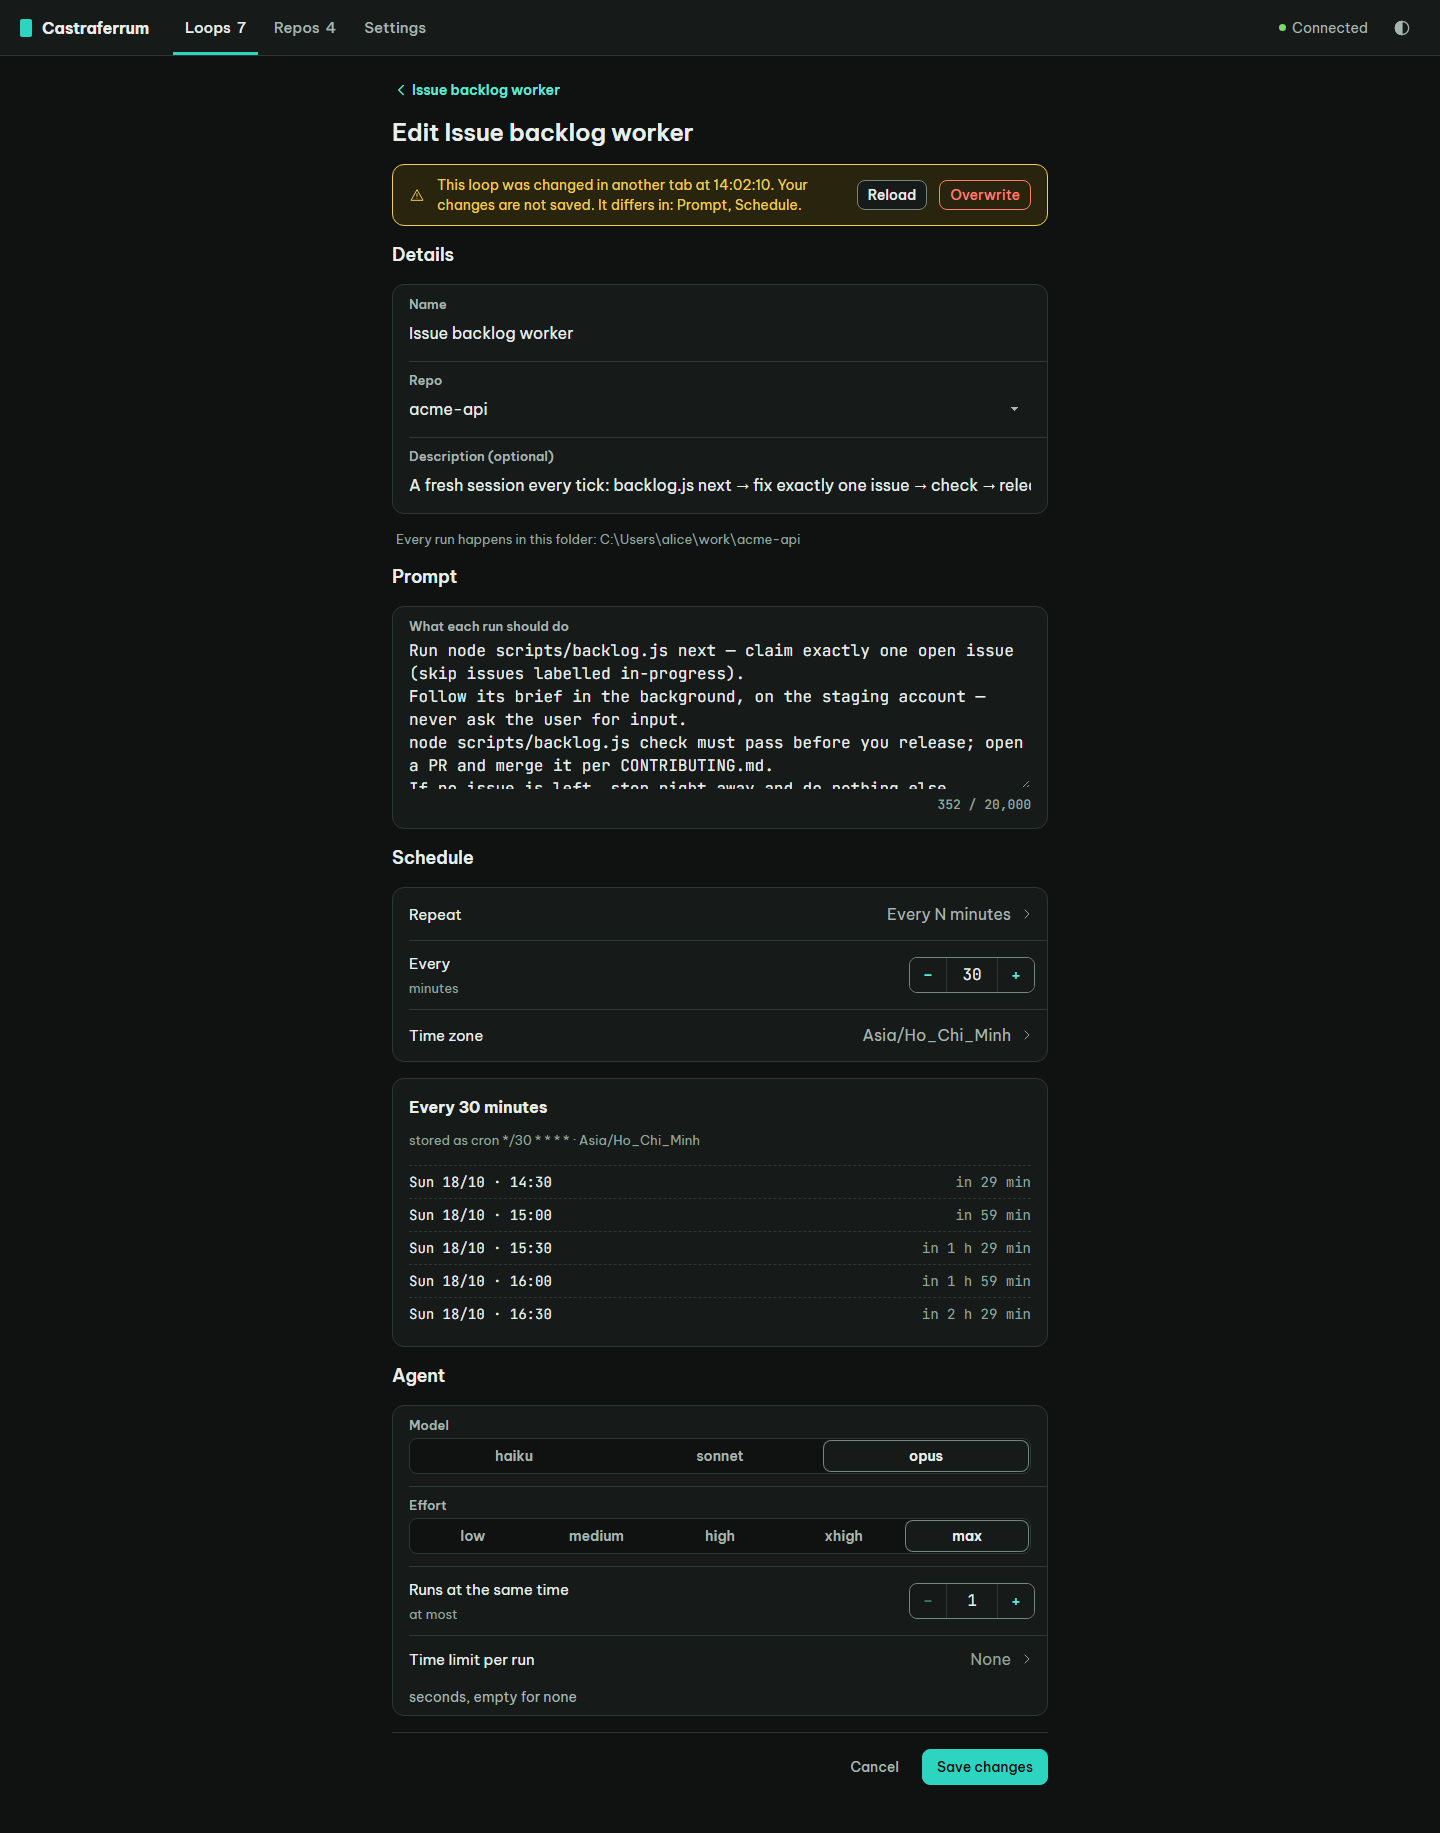
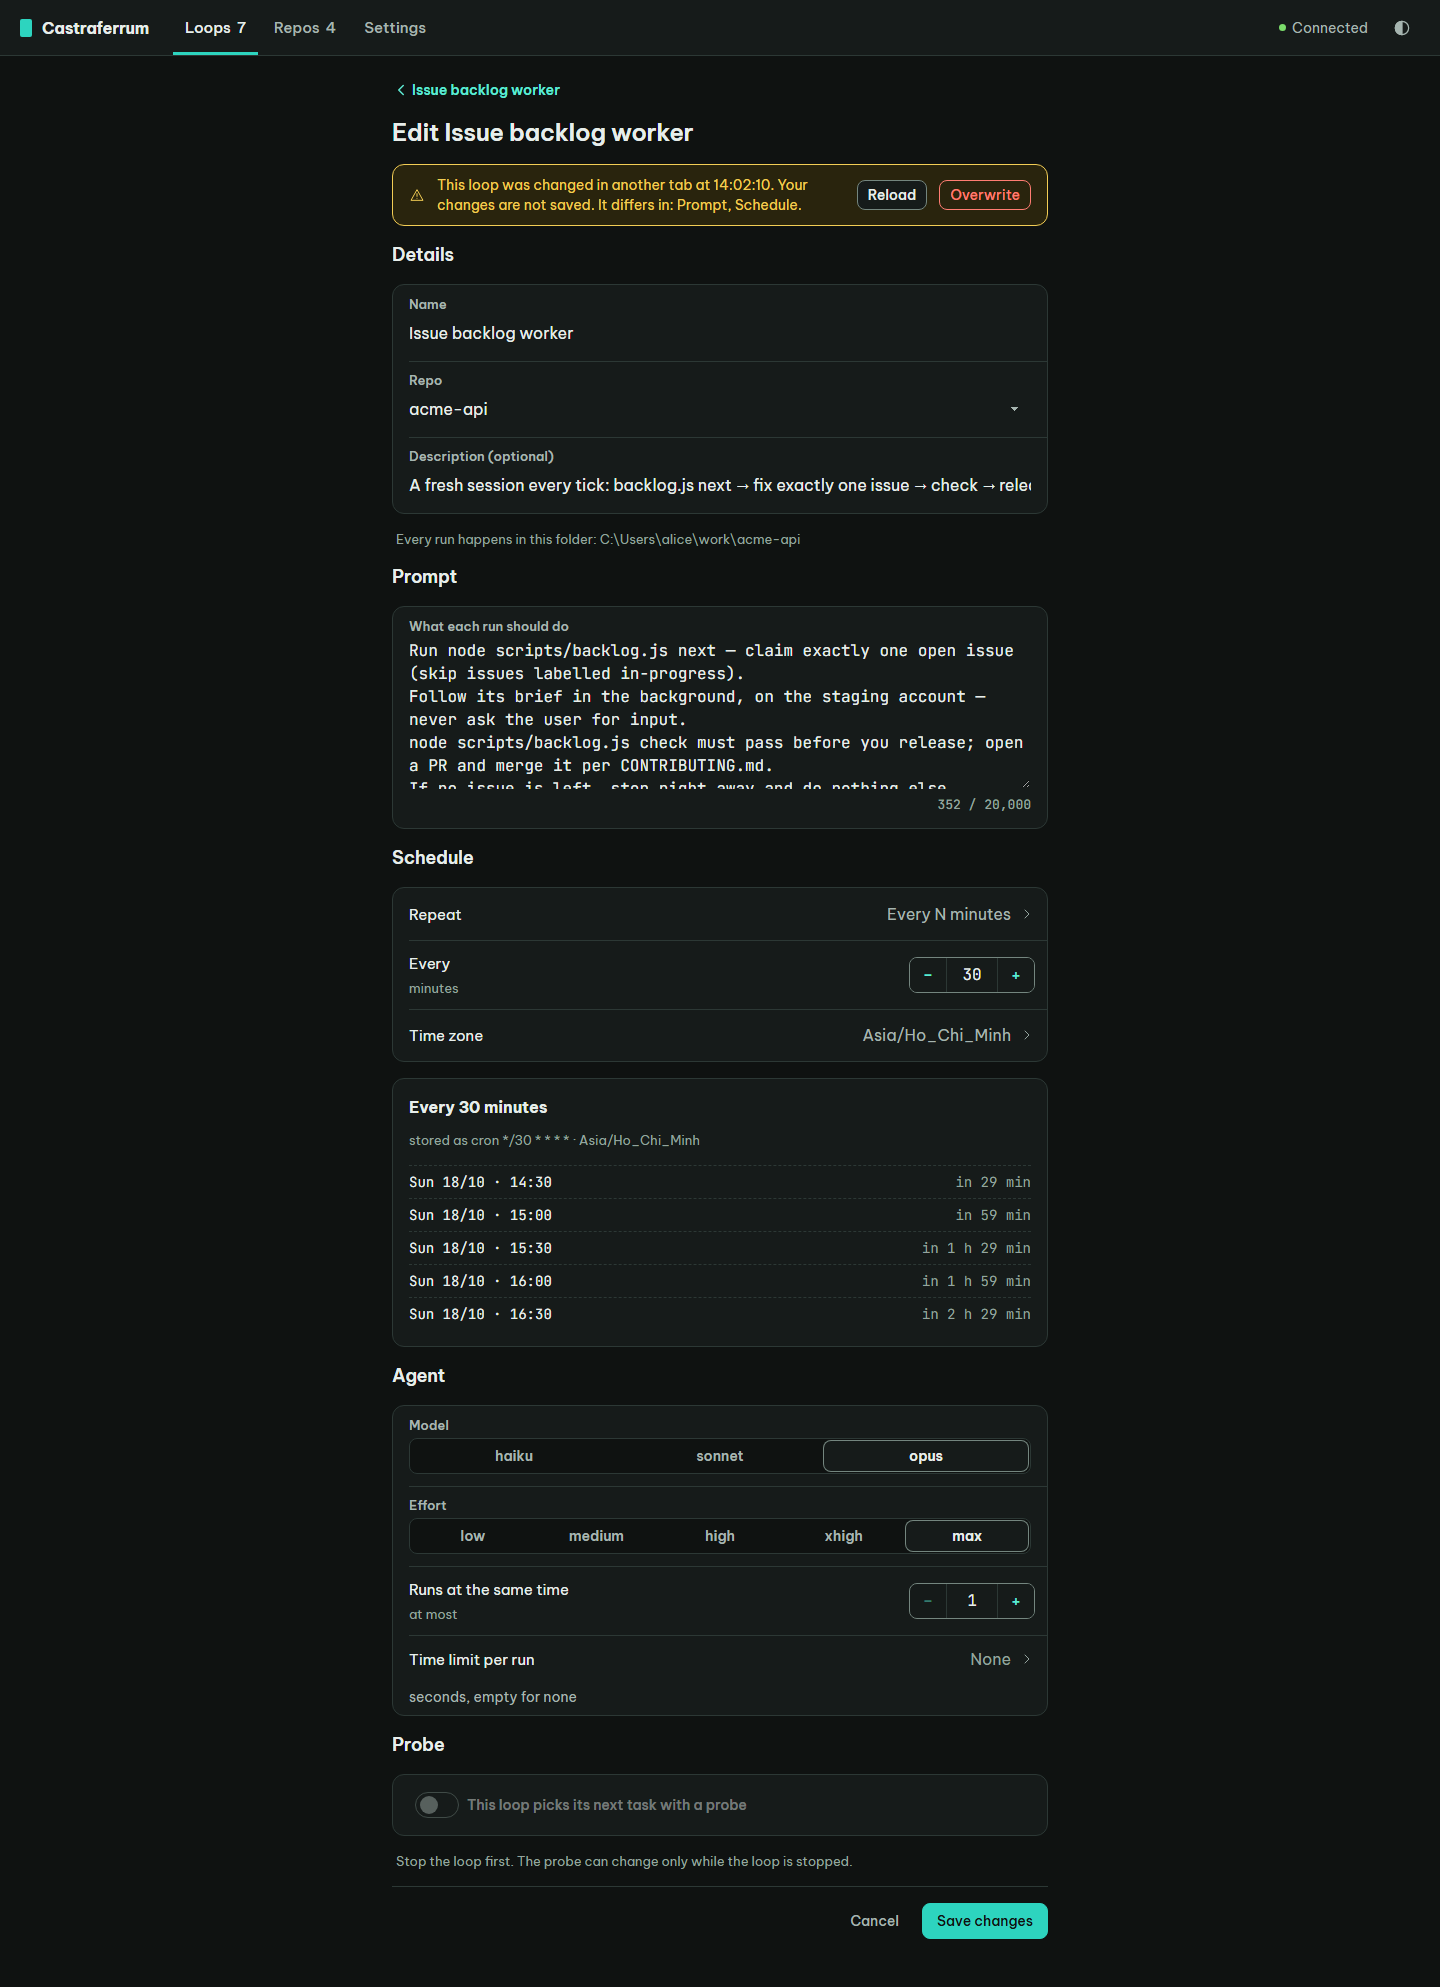
test: the editor of a loop that exists has a Probe caption; re-shot edit states (P15)

diff --git a/tests/visual/ds/layout.visual.ts b/tests/visual/ds/layout.visual.ts
@@ -290,7 +290,7 @@ test.describe("phone section captions (castraferrum#202)", () => {
         [],
       ],
       ["/loops/new", ["Details", "Prompt", "Schedule", "Agent"], ["Details"]],
-      [`/loops/${pilot}/edit`, ["Details", "Prompt", "Schedule", "Agent"], []],
+      [`/loops/${pilot}/edit`, ["Details", "Prompt", "Schedule", "Agent", "Probe"], []],
       ["/settings", ["Appearance", "Connection", "This device", "About"], []],
     ];
     const gap = await (async () => {
